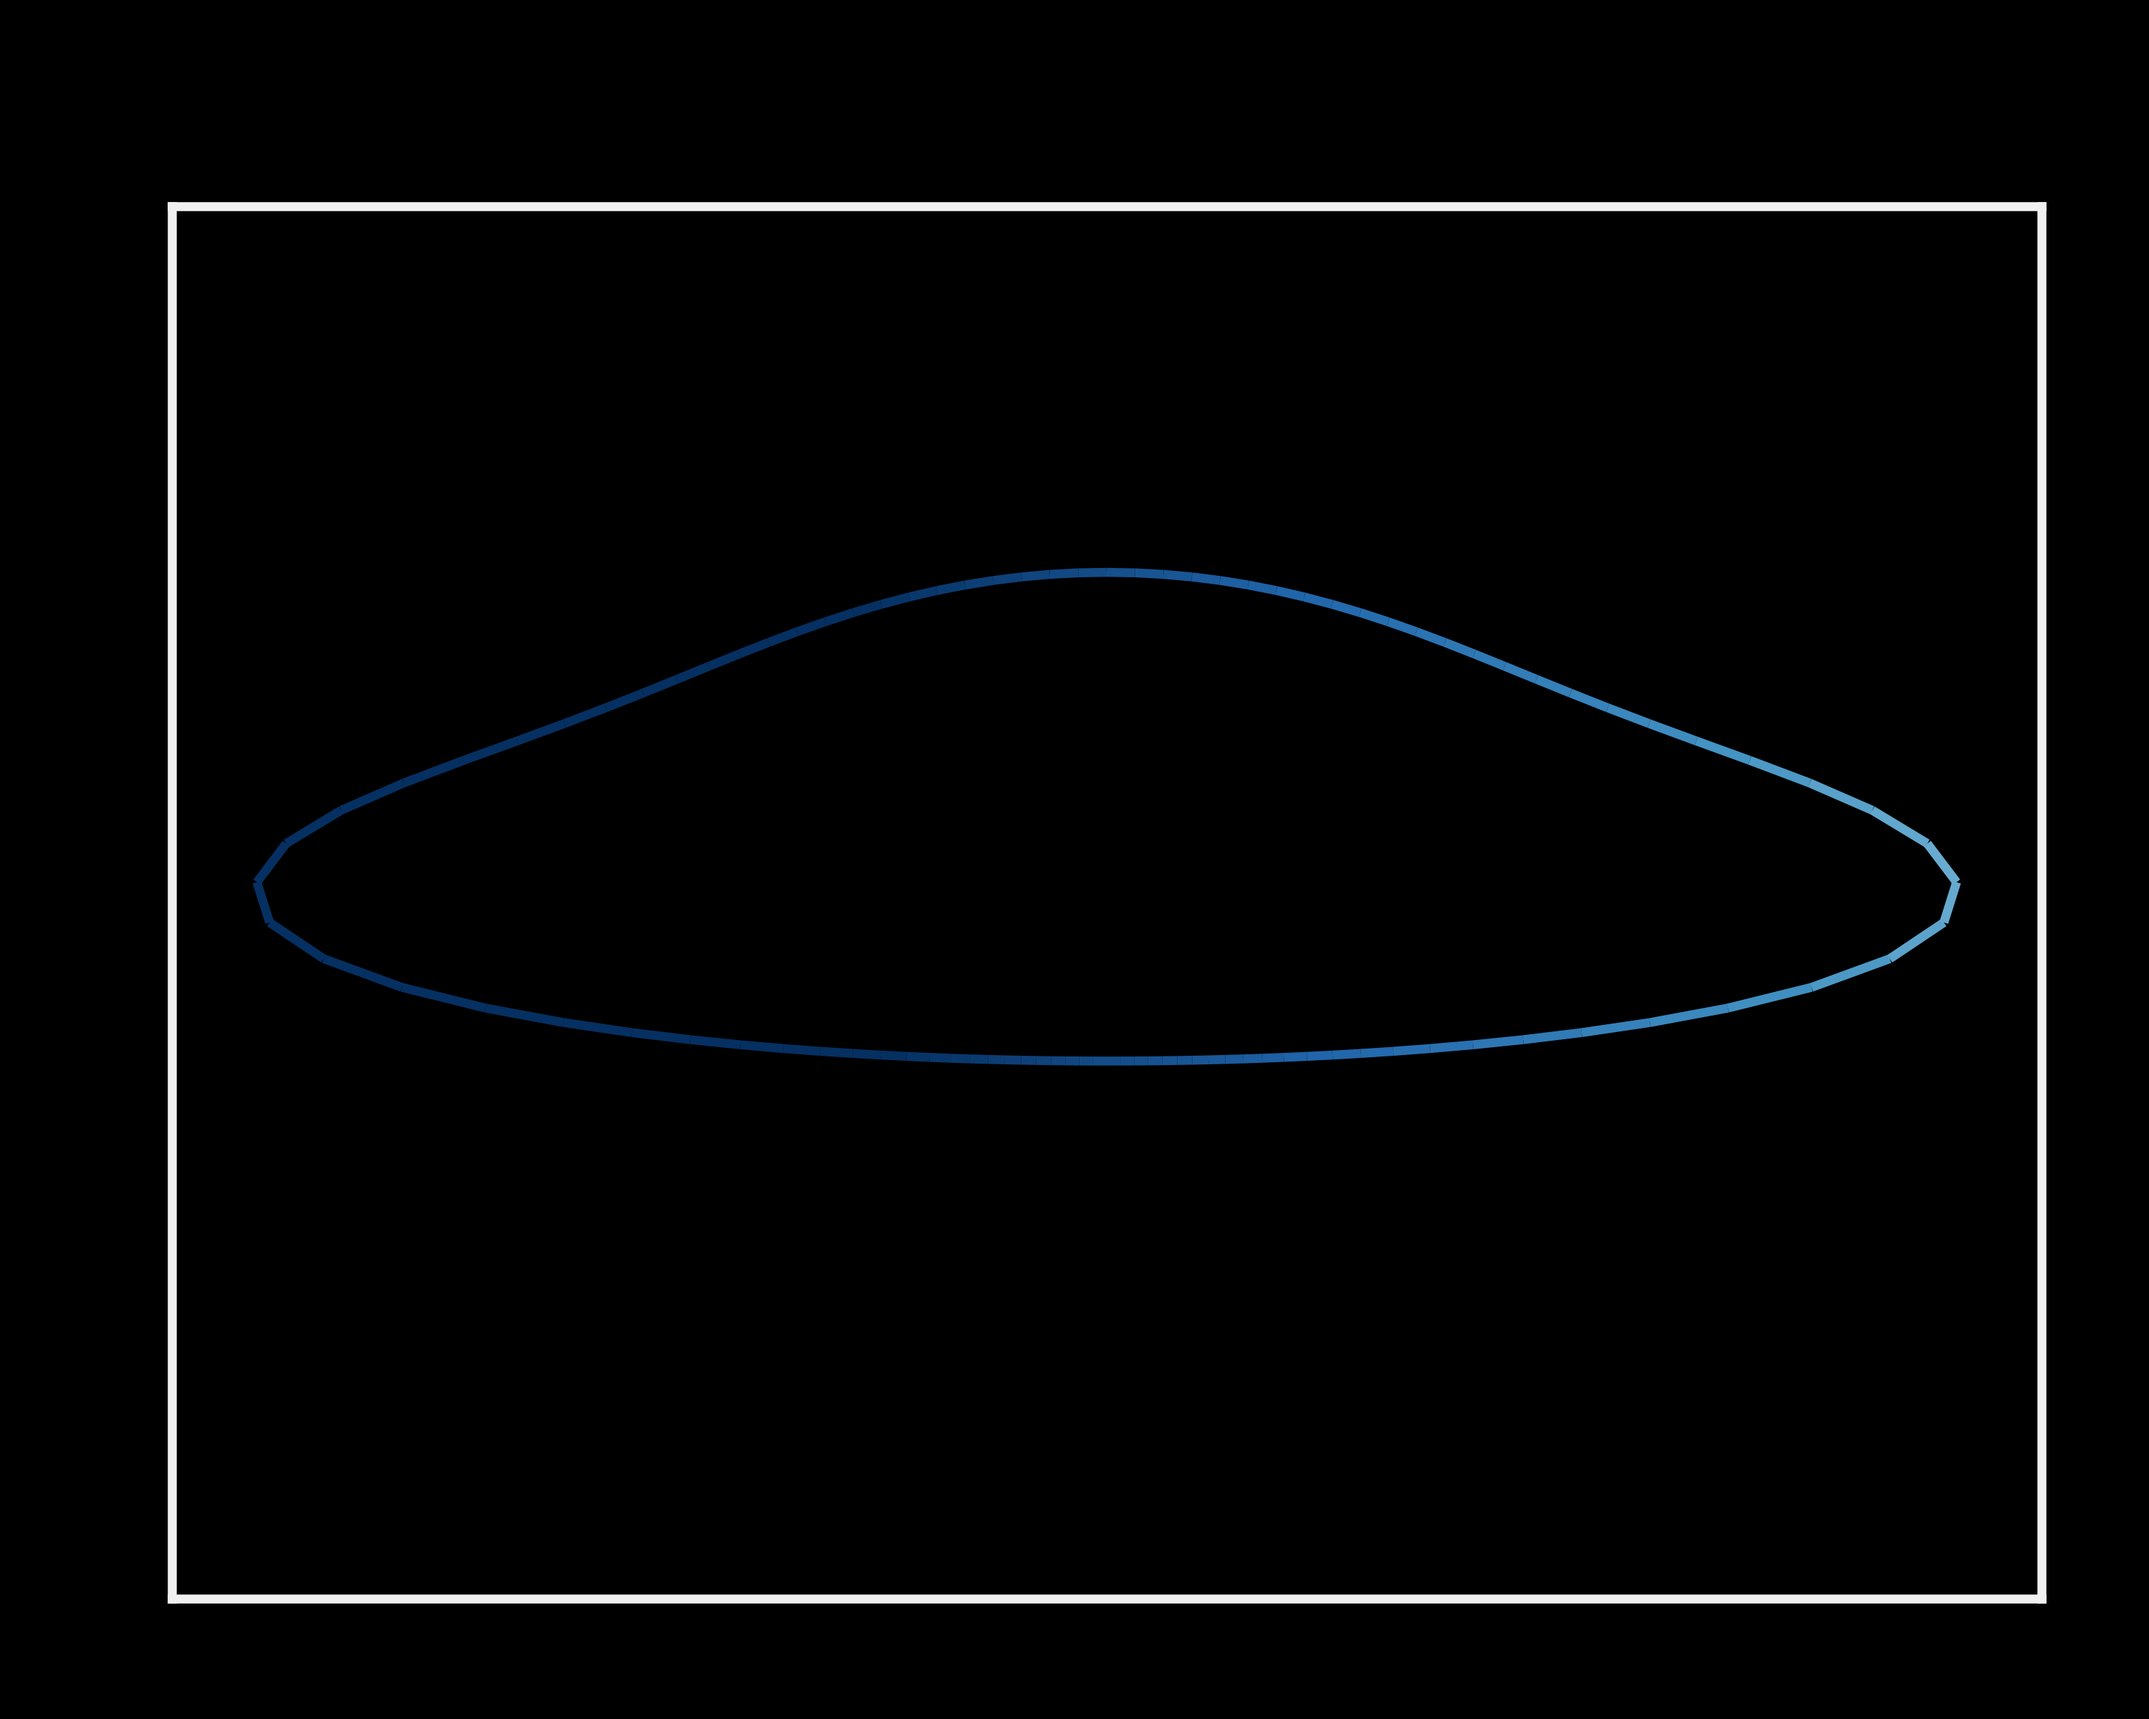
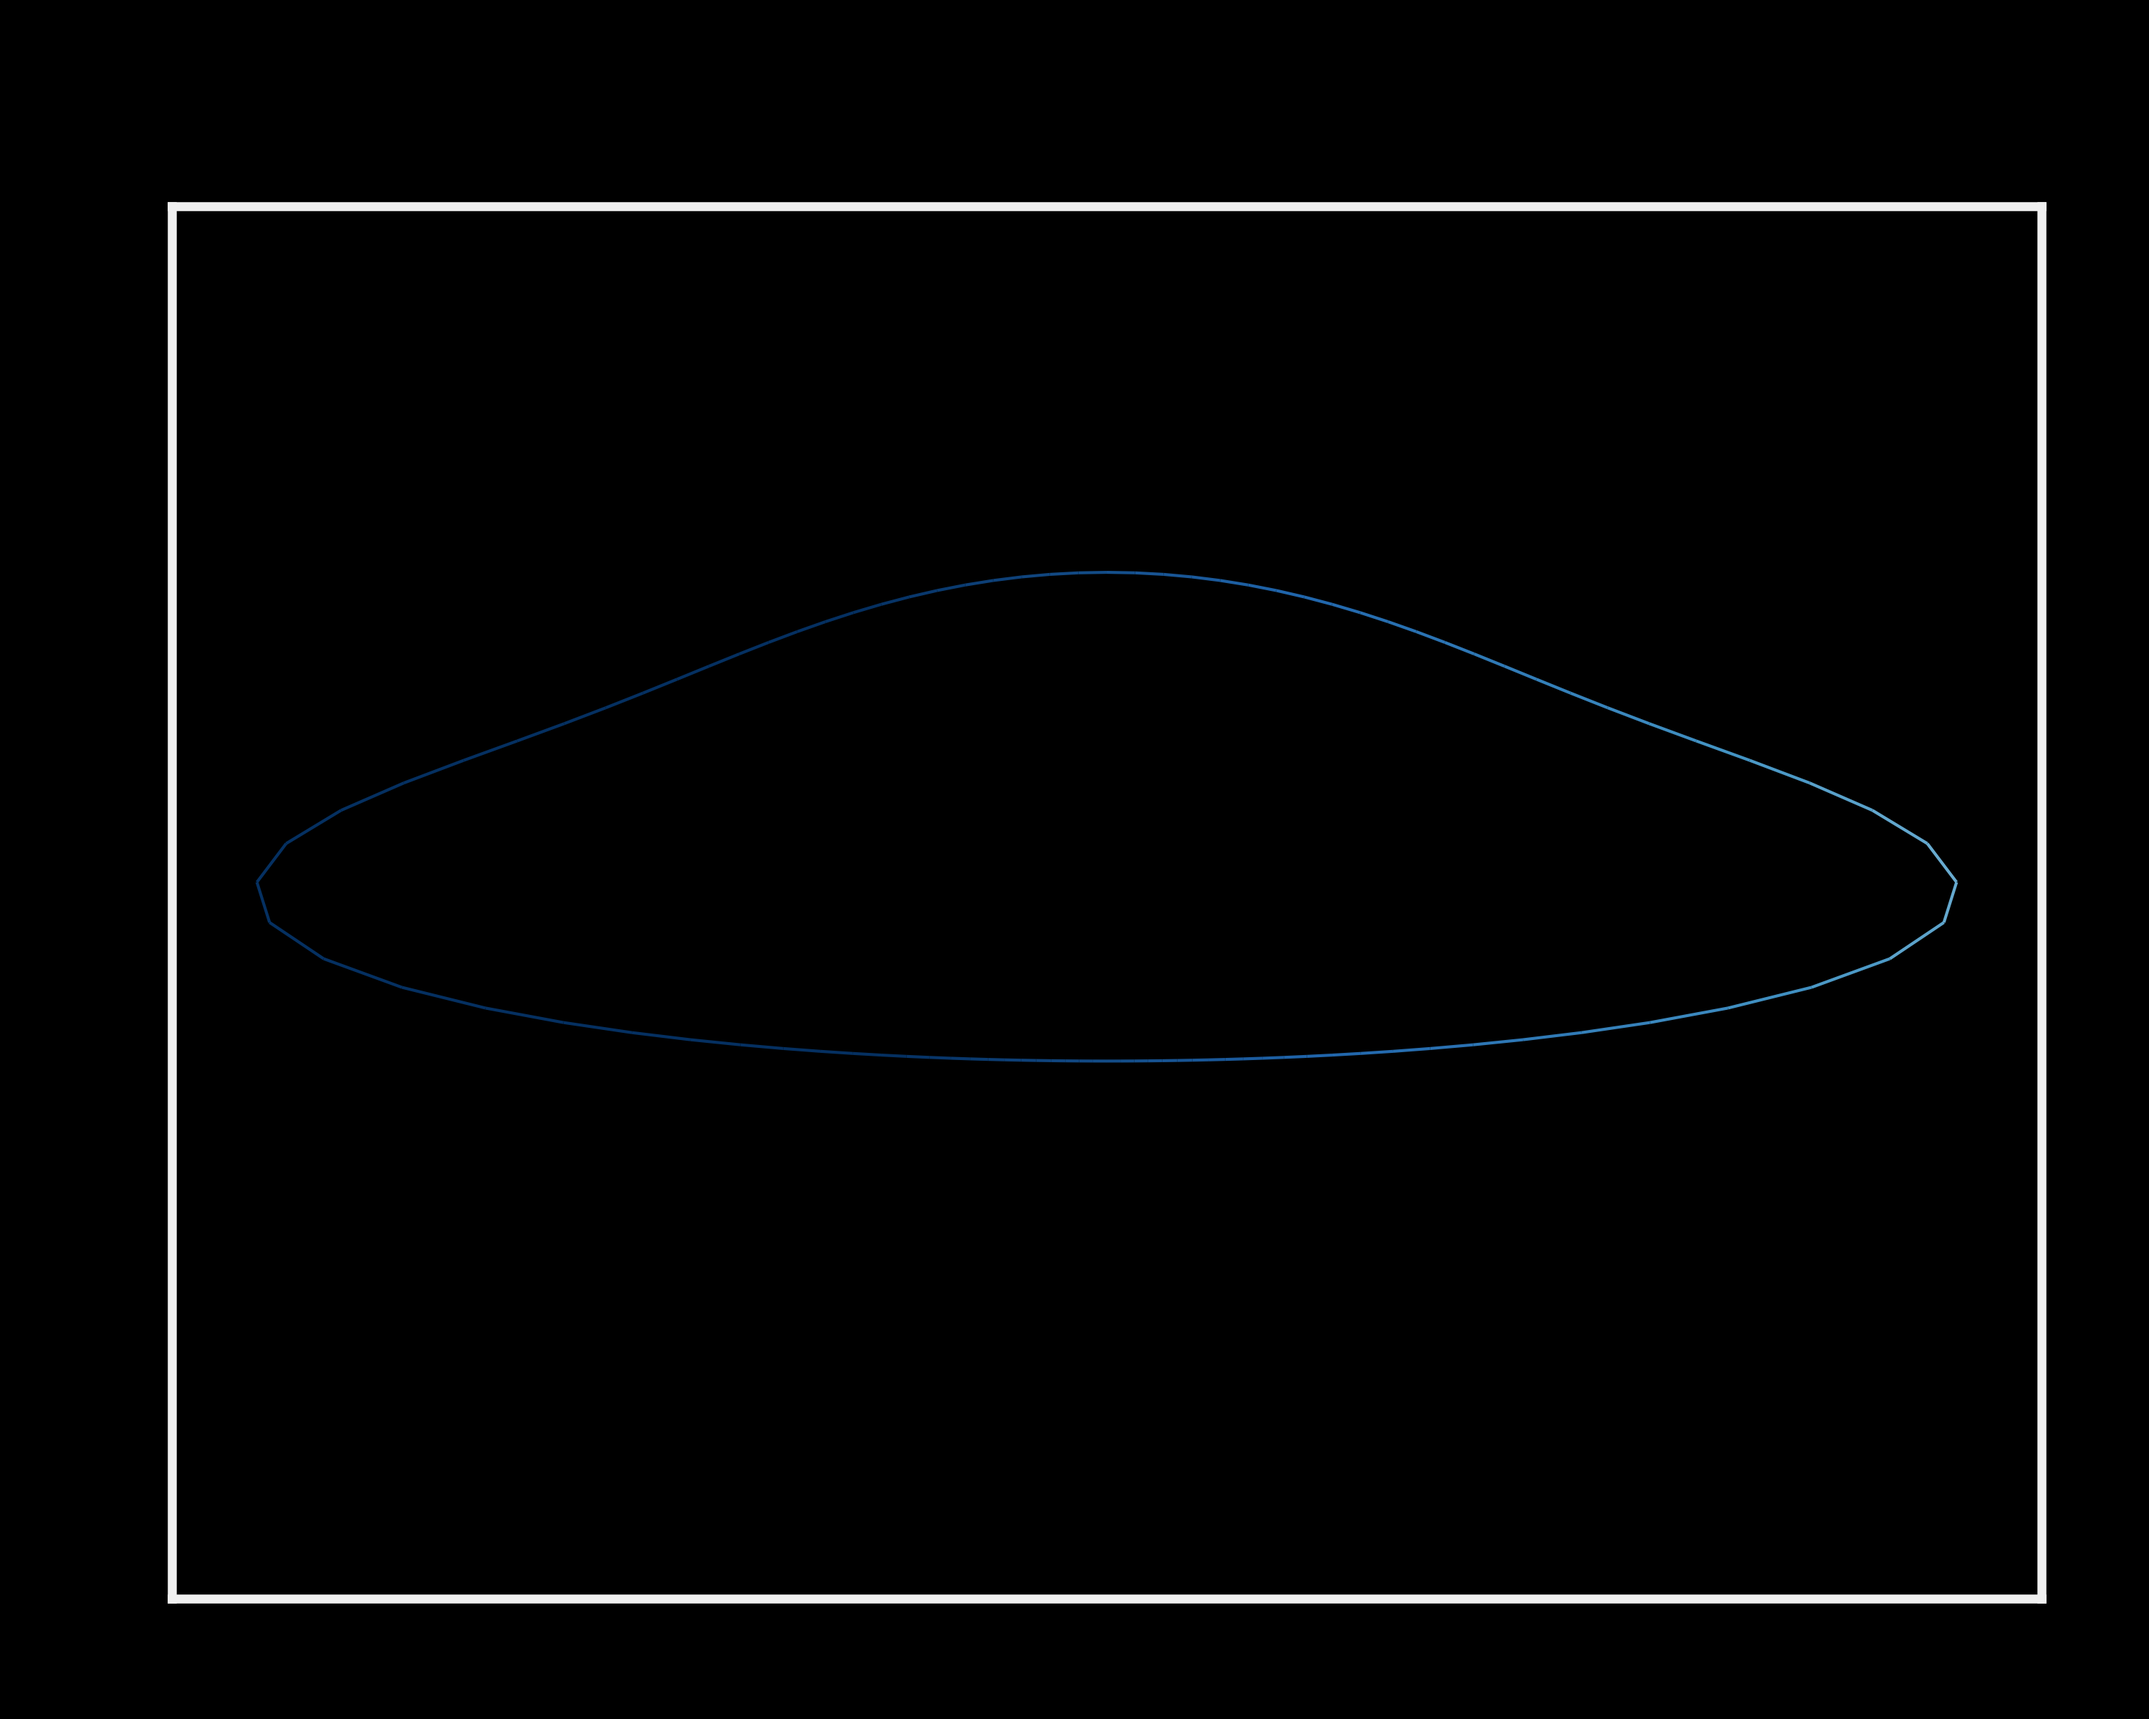
Refactor plot method to accept `linewidth` parameter and update related code lines accordingly. Apply similar refactoring where color is passed as an argument without changes.

diff --git a/src/visualization/black_hole_plotter.py b/src/visualization/black_hole_plotter.py
@@ -9,32 +9,32 @@ from ..visualization.isoradial_plotter import IsoradialPlotter
 from ..visualization.isoredshift_plotter import IsoredshiftPlotter
 
 class BlackHolePlotter(BasePlotter):
-    def plot_photon_sphere(self, black_hole: BlackHole, c: str = '--'):
+    def plot_photon_sphere(self, black_hole: BlackHole, c: str = '--', linewidth: float = 1.0):
         x, y = black_hole.disk_inner_edge.X, black_hole.disk_inner_edge.Y
-        self.ax.plot(x, y, color=c, zorder=0)
+        self.ax.plot(x, y, color=c, zorder=0, linewidth=linewidth)
         return self.ax
 
-    def plot_apparent_inner_edge(self, black_hole: BlackHole, linestyle: str = '--'):
+    def plot_apparent_inner_edge(self, black_hole: BlackHole, linestyle: str = '--', linewidth: float = 1.0):
         if hasattr(black_hole, 'disk_apparent_inner_edge'):
             x, y = black_hole.disk_apparent_inner_edge.X, black_hole.disk_apparent_inner_edge.Y
-            self.ax.plot(x, y, zorder=0, linestyle=linestyle, linewidth=2. * self.config['plot_params']["linewidth"])
+            self.ax.plot(x, y, zorder=0, linestyle=linestyle, linewidth=linewidth)
         else:
             print("Warning: Black hole does not have argument disk_apparent_inner_edge attribute.")
         return self.ax
 
-    def plot_isoradials(self, black_hole: BlackHole, direct_r: List[float], ghost_r: List[float], show: bool = False):
+    def plot_isoradials(self, black_hole: BlackHole, direct_r: List[float], ghost_r: List[float], show: bool = False, linewidth: float = 1.0):
         black_hole.calc_isoradials(direct_r, ghost_r)
 
         for radius in sorted(ghost_r):
             isoradial = black_hole.isoradials[radius][1]
-            self.plot_isoradial(isoradial, color_range=(-1, 1), alpha=0.5)
+            self.plot_isoradial(isoradial, color_range=(-1, 1), alpha=0.5, linewidth=linewidth)
 
         for radius in sorted(direct_r):
             isoradial = black_hole.isoradials[radius][0]  
-            self.plot_isoradial(isoradial, color_range=(-1, 1), alpha=1.0)
+            self.plot_isoradial(isoradial, color_range=(-1, 1), alpha=1.0, linewidth=linewidth)
 
         if self.config['plot_params']['plot_core']:
-            self.plot_apparent_inner_edge(black_hole, '--')
+            self.plot_apparent_inner_edge(black_hole, '--', linewidth=linewidth)
 
         self.ax.set_title(f"Isoradials for M={black_hole.mass}", color=self.config['plot_params']['text_color'])
         
@@ -53,11 +53,11 @@ class BlackHolePlotter(BasePlotter):
 
         return self.fig, self.ax
         
-    def plot_isoradial(self, isoradial: Isoradial, color_range: Tuple[float, float] = (0, 1), alpha: float = 1.0):
+    def plot_isoradial(self, isoradial: Isoradial, color_range: Tuple[float, float] = (0, 1), alpha: float = 1.0, linewidth: float = 1.0):
         isoradial_plotter = IsoradialPlotter(self.config)
-        isoradial_plotter.plot(isoradial, ax=self.ax, colornorm=color_range, alpha=alpha)
+        isoradial_plotter.plot(isoradial, ax=self.ax, colornorm=color_range, alpha=alpha, linewidth=linewidth)
 
-    def plot_isoredshifts(self, black_hole: BlackHole, redshifts: Optional[List[float]] = None, plot_core: bool = False):
+    def plot_isoredshifts(self, black_hole: BlackHole, redshifts: Optional[List[float]] = None, plot_core: bool = False, linewidth: float = 1.0):
         if redshifts is None:
             redshifts = [-.2, -.15, 0., .15, .25, .5, .75, 1.]
         
@@ -65,10 +65,10 @@ class BlackHolePlotter(BasePlotter):
 
         for redshift, irz in black_hole.isoredshifts.items():
             isoredshift_plotter = IsoredshiftPlotter(self.config)
-            isoredshift_plotter.plot_with_improvement(irz, ax=self.ax)
+            isoredshift_plotter.plot_with_improvement(irz, ax=self.ax, linewidth=linewidth)
             
         if plot_core:
-            self.plot_apparent_inner_edge(black_hole, linestyle='-')
+            self.plot_apparent_inner_edge(black_hole, linestyle='-', linewidth=linewidth)
             
         self.ax.set_title("Isoredshift lines for M={}".format(black_hole.mass))
         self.show_plot()

diff --git a/src/visualization/isoradial_plotter.py b/src/visualization/isoradial_plotter.py
@@ -9,7 +9,7 @@ from typing import Optional, Tuple
 
 class IsoradialPlotter(BasePlotter):
     def plot(self, isoradial: Isoradial, ax: Optional[plt.Axes] = None, 
-             colornorm: Tuple[float, float] = (0, 1), alpha: float = 1.0):
+             colornorm: Tuple[float, float] = (0, 1), alpha: float = 1.0, linewidth: float = 1.0):
         if ax is None:
             ax = self.ax
         
@@ -17,11 +17,12 @@ class IsoradialPlotter(BasePlotter):
         if self.config['plot_params']['redshift']:
             line = self._colorline(ax, isoradial.X, isoradial.Y, 
                             z=[e - 1 for e in isoradial.redshift_factors],
-                            cmap=plt.get_cmap('RdBu_r'), alpha=alpha)
+                            cmap=plt.get_cmap('RdBu_r'), alpha=alpha, linewidth=linewidth)
             line.set_label(label)
         else:
             line, = ax.plot(isoradial.X, isoradial.Y, color=self.config['plot_params']['line_color'],
-                    alpha=alpha, linestyle=self.config['plot_params']['linestyle'], label=label)
+                            alpha=alpha, linestyle=self.config['plot_params']['linestyle'], label=label,
+                            linewidth=linewidth)
         
         if self.config['plot_params']['legend']:
             ax.legend(prop={'size': 16})
@@ -39,7 +40,7 @@ class IsoradialPlotter(BasePlotter):
         return segments
 
     def _colorline(self, ax, x, y, z=None, cmap=plt.get_cmap('RdBu_r'), 
-                   norm=plt.Normalize(0, 1), alpha=1.0, linewidth=3):
+                   norm=plt.Normalize(0, 1), alpha=1.0, linewidth: float = 3.0):
         if z is None:
             z = np.linspace(0.0, 1.0, len(x))
     
@@ -50,13 +51,13 @@ class IsoradialPlotter(BasePlotter):
         return lc
 
     def plot_redshift(self, isoradial: Isoradial, fig: Optional[plt.Figure] = None, 
-                      ax: Optional[plt.Axes] = None, show: bool = True):
+                      ax: Optional[plt.Axes] = None, show: bool = True, linewidth: float = 1.0):
         if fig is None:
             fig = self.fig
         if ax is None:
             ax = self.ax
         
-        ax.plot(isoradial.angles, [z - 1 for z in isoradial.redshift_factors])
+        ax.plot(isoradial.angles, [z - 1 for z in isoradial.redshift_factors], linewidth=linewidth)
         ax.set_title("Redshift values for isoradial\nR={} | M = {}".format(isoradial.radius, isoradial.mass))
         ax.set_xlim([0, 2 * np.pi])
         

diff --git a/src/visualization/isoredshift_plotter.py b/src/visualization/isoredshift_plotter.py
@@ -6,22 +6,22 @@ from ..core.isoredshift_model import Isoredshift
 from typing import Optional
 
 class IsoredshiftPlotter(BasePlotter):
-    def plot(self, isoredshift: Isoredshift, ax: Optional[plt.Axes] = None, color: str = 'white'):
+    def plot(self, isoredshift: Isoredshift, ax: Optional[plt.Axes] = None, color: str = 'white', linewidth: float = 1.0):
         if ax is None:
             ax = self.ax
         
-        ax.plot(isoredshift.y, [-e for e in isoredshift.x], color=color)
+        ax.plot(isoredshift.y, [-e for e in isoredshift.x], color=color, linewidth=linewidth)
         return ax
 
     def plot_with_improvement(self, isoredshift: Isoredshift, ax: Optional[plt.Axes] = None, 
-                              max_tries: int = 10, color: str = 'white'):
+                              max_tries: int = 10, color: str = 'white', linewidth: float = 1.0):
         if ax is None:
             ax = self.ax
         
-        self.plot(isoredshift, ax, color)
+        self.plot(isoredshift, ax, color, linewidth=linewidth)
         tries = 0
         while len(isoredshift.ir_radii_w_co) < 10 and tries < max_tries:
             isoredshift.improve_between_all_solutions_once()
             tries += 1
-        self.plot(isoredshift, ax, color)
+        self.plot(isoredshift, ax, color, linewidth=linewidth)
         return ax

diff --git a/main.py b/main.py
@@ -91,7 +91,7 @@ def plot_blackhole_isoradials():
     blackhole.calc_isoradials(direct_r, ghost_r)
     
     plotter = BlackHolePlotter(params)
-    ax = plotter.plot_isoradials(blackhole, direct_r, ghost_r)
+    ax = plotter.plot_isoradials(blackhole, direct_r, ghost_r, 0.2)
     plotter.save_plot("blackhole_isoradials.png")
 
 def plot_blackhole_isoredshifts():
@@ -126,8 +126,8 @@ def main():
     print("Plotting black hole isoradials...")
     plot_blackhole_isoradials()
     
-    print("Plotting black hole isoredshifts...")
-    plot_blackhole_isoredshifts()
+    # print("Plotting black hole isoredshifts...")
+    # plot_blackhole_isoredshifts()
     
     print("Plotting improved isoredshift...")
     plot_improved_isoredshift()
